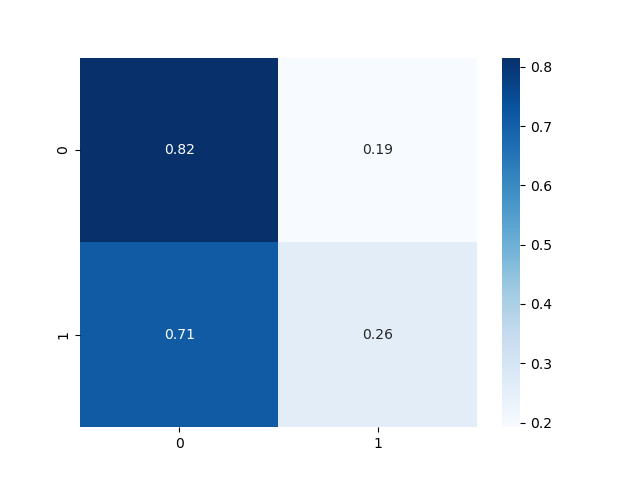
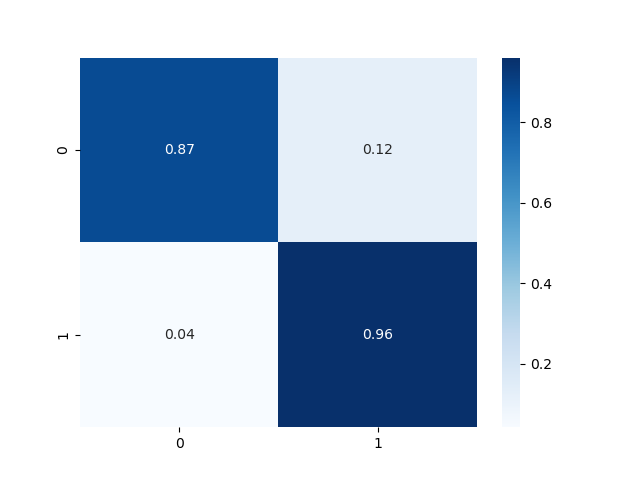
edit SITS-BERT model

diff --git a/train_SBERT_renew.py b/train_SBERT_renew.py
@@ -16,8 +16,8 @@ from src.loss import FocalLoss
 from tqdm import tqdm
 
 parser = argparse.ArgumentParser(description="training SBERT Disruption Classifier")
-parser.add_argument("--batch_size", type = int, default = 24)
-parser.add_argument("--lr", type = float, default = 5e-4)
+parser.add_argument("--batch_size", type = int, default = 48)
+parser.add_argument("--lr", type = float, default = 1e-3)
 parser.add_argument("--gamma", type = float, default = 0.999)
 parser.add_argument("--gpu_num", type = int, default = 0)
 parser.add_argument("--alpha", type = float, default = 0.01)
@@ -74,17 +74,17 @@ if __name__ == "__main__":
 
     video_encoder = SITSBertSpatialEncoder(
         input_shape  = (3, clip_len, 112, 112),
-        alpha  = 1,
-        layers = [2,2,2,2]
+        alpha  = 2,
+        layers = [1,2,2,1]
     )
     
     num_features = video_encoder.get_output_size()[-1]
 
     temporal_encoder = SBERT(
         num_features = num_features, #18432,
-        hidden = 256,
+        hidden = 128,
         n_layers = 4,
-        attn_heads = 16, 
+        attn_heads = 8, 
         max_len  = clip_len
     )
 
@@ -94,6 +94,8 @@ if __name__ == "__main__":
         mlp_hidden = 128, 
         num_classes = 2
     )
+    
+    model.summary()
 
     model.to(device)
 
@@ -122,6 +124,8 @@ if __name__ == "__main__":
         save_best_only=True,
         save_best_dir = save_best_dir
     )
+    
+    model.load_state_dict(torch.load(save_best_dir))
 
     test_loss, test_acc = evaluate(
         test_loader_dist,

diff --git a/train_slowfast.py b/train_slowfast.py
@@ -23,7 +23,7 @@ parser.add_argument("--gpu_num", type = int, default = 0)
 parser.add_argument("--alpha", type = int, default = 2)
 parser.add_argument("--p", type = float, default = 0.5)
 parser.add_argument("--clip_len", type = int, default = 42)
-parser.add_argument("--hidden", type = int, default = 256)
+parser.add_argument("--hidden", type = int, default = 128)
 parser.add_argument("--wandb_save_name", type = str, default = "slowfast-exp001")
 parser.add_argument("--num_epoch", type = int, default = 256)
 parser.add_argument("--verbose", type = int, default = 4)
@@ -98,7 +98,7 @@ if __name__ == "__main__":
     model = SlowFastDisruptionClassifier(
         input_shape = (3,clip_len,112,112),
         block = Bottleneck3D,
-        layers = [3,4,4,3], #[1,1,1,1], #[3,4,6,3],
+        layers = [1,2,2,1], #[1,1,1,1], #[3,4,6,3],
         alpha = alpha,
         p = p,
         mlp_hidden = hidden,
